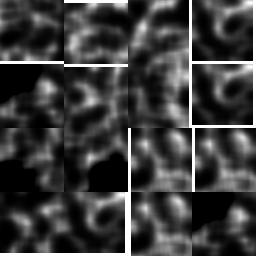
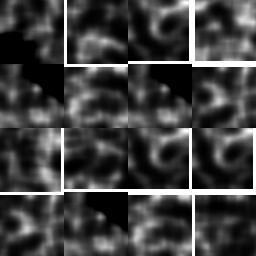
Add files via upload

diff --git a/PythonProject1/main.py b/PythonProject1/main.py
@@ -3,13 +3,12 @@ import requests
 from pprint import pprint
 from PIL import Image
 
-r = requests.get('https://olimp.miet.ru/ppo_it/api').json()
-i = 1
-
-for e in r['message']['data']:
-    print(*e, sep='\t')
-
 ans = []
+
+for i in range(4):
+    ans.append([])
+    for j in range(4):
+        ans[i].append(requests.get('https://olimp.miet.ru/ppo_it/api').json()['message']['data'])
 
 im = Image.new("RGB", (256, 256), (0, 0, 0))
 pixels = im.load()
@@ -17,11 +16,9 @@ pixels = im.load()
 for n1 in range(4):
     ans.append([])
     for n2 in range(4):
-        r = requests.get('https://olimp.miet.ru/ppo_it/api').json()['message']['data']
+        r = ans[n1][n2]
         for i in range(64):
             for j in range(64):
                 pixels[n2 * 64 + j, n1 * 64 + i] = r[i][j], r[i][j], r[i][j]
 
 im.save('res.jpg')
-
-
